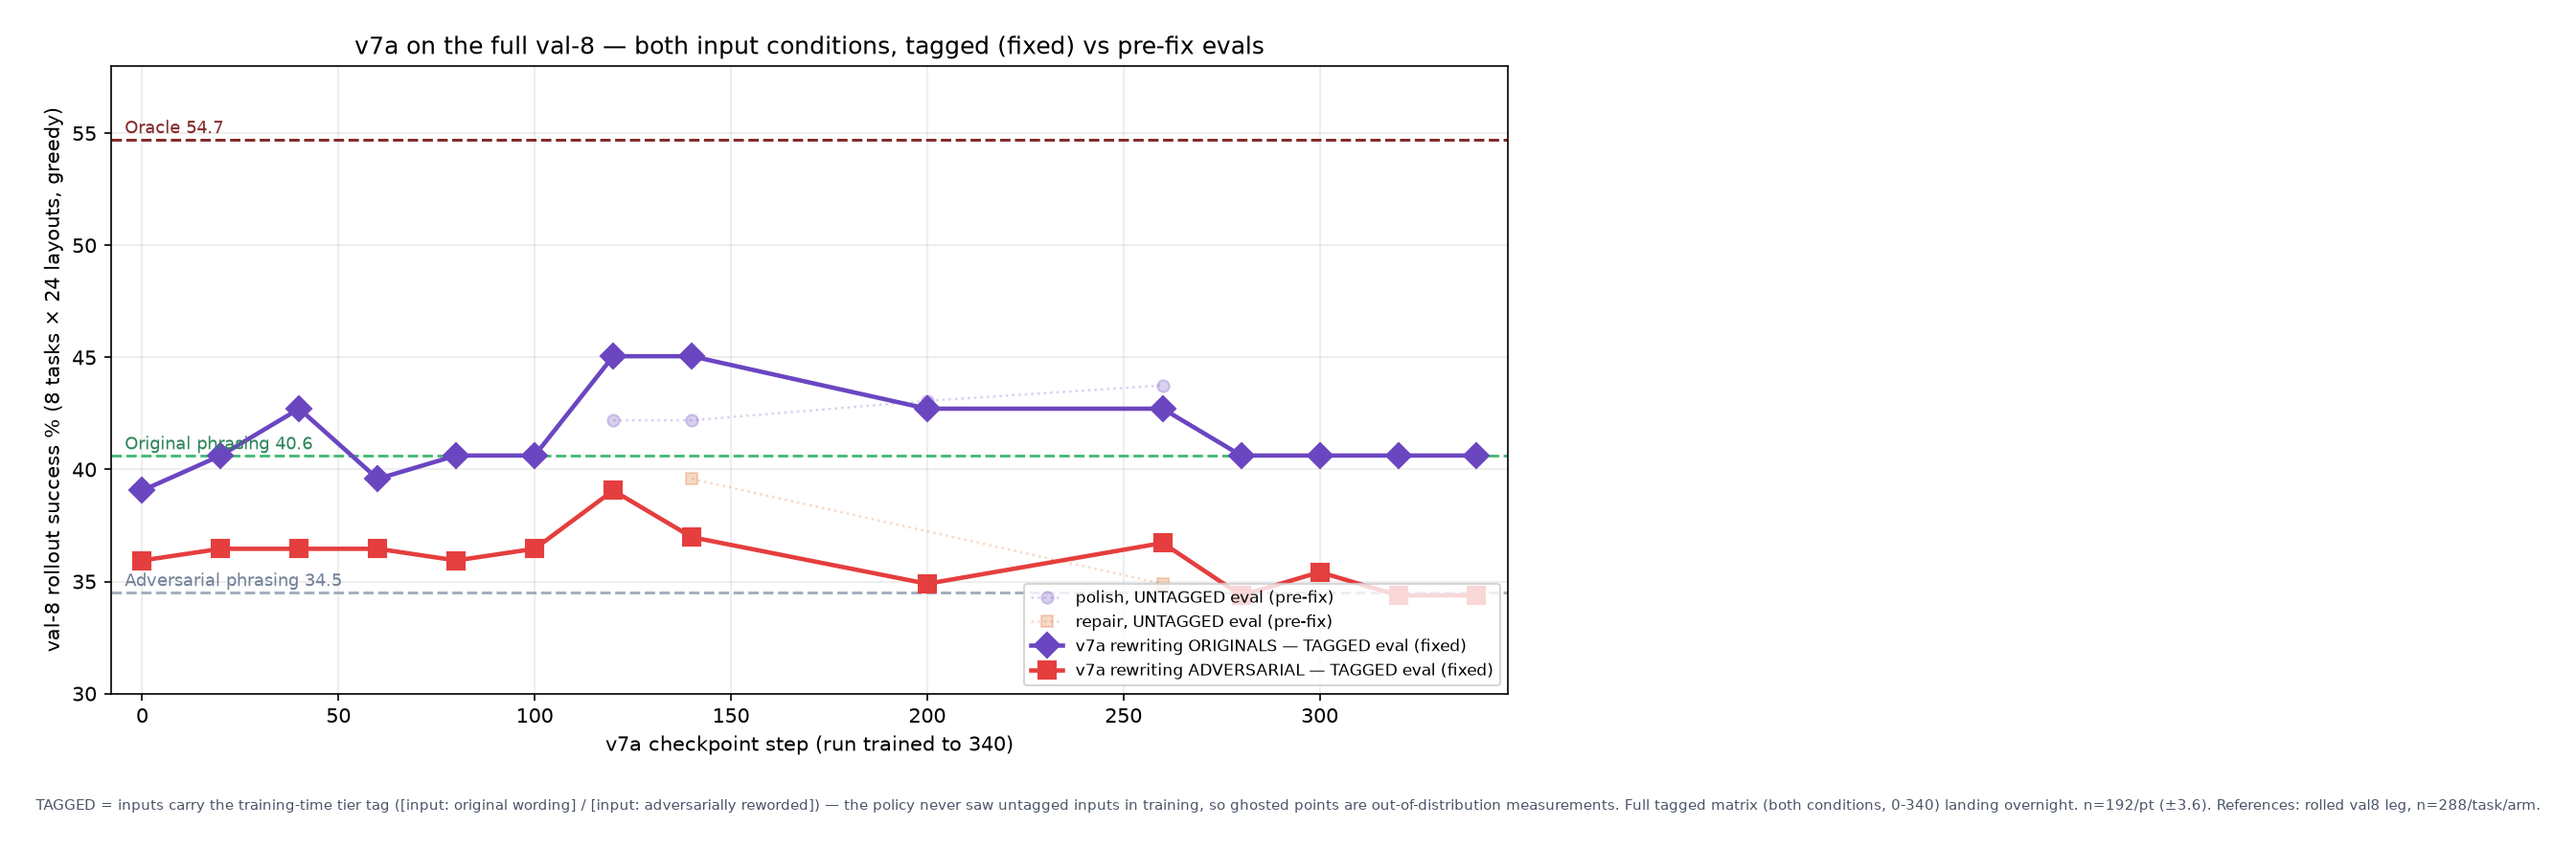
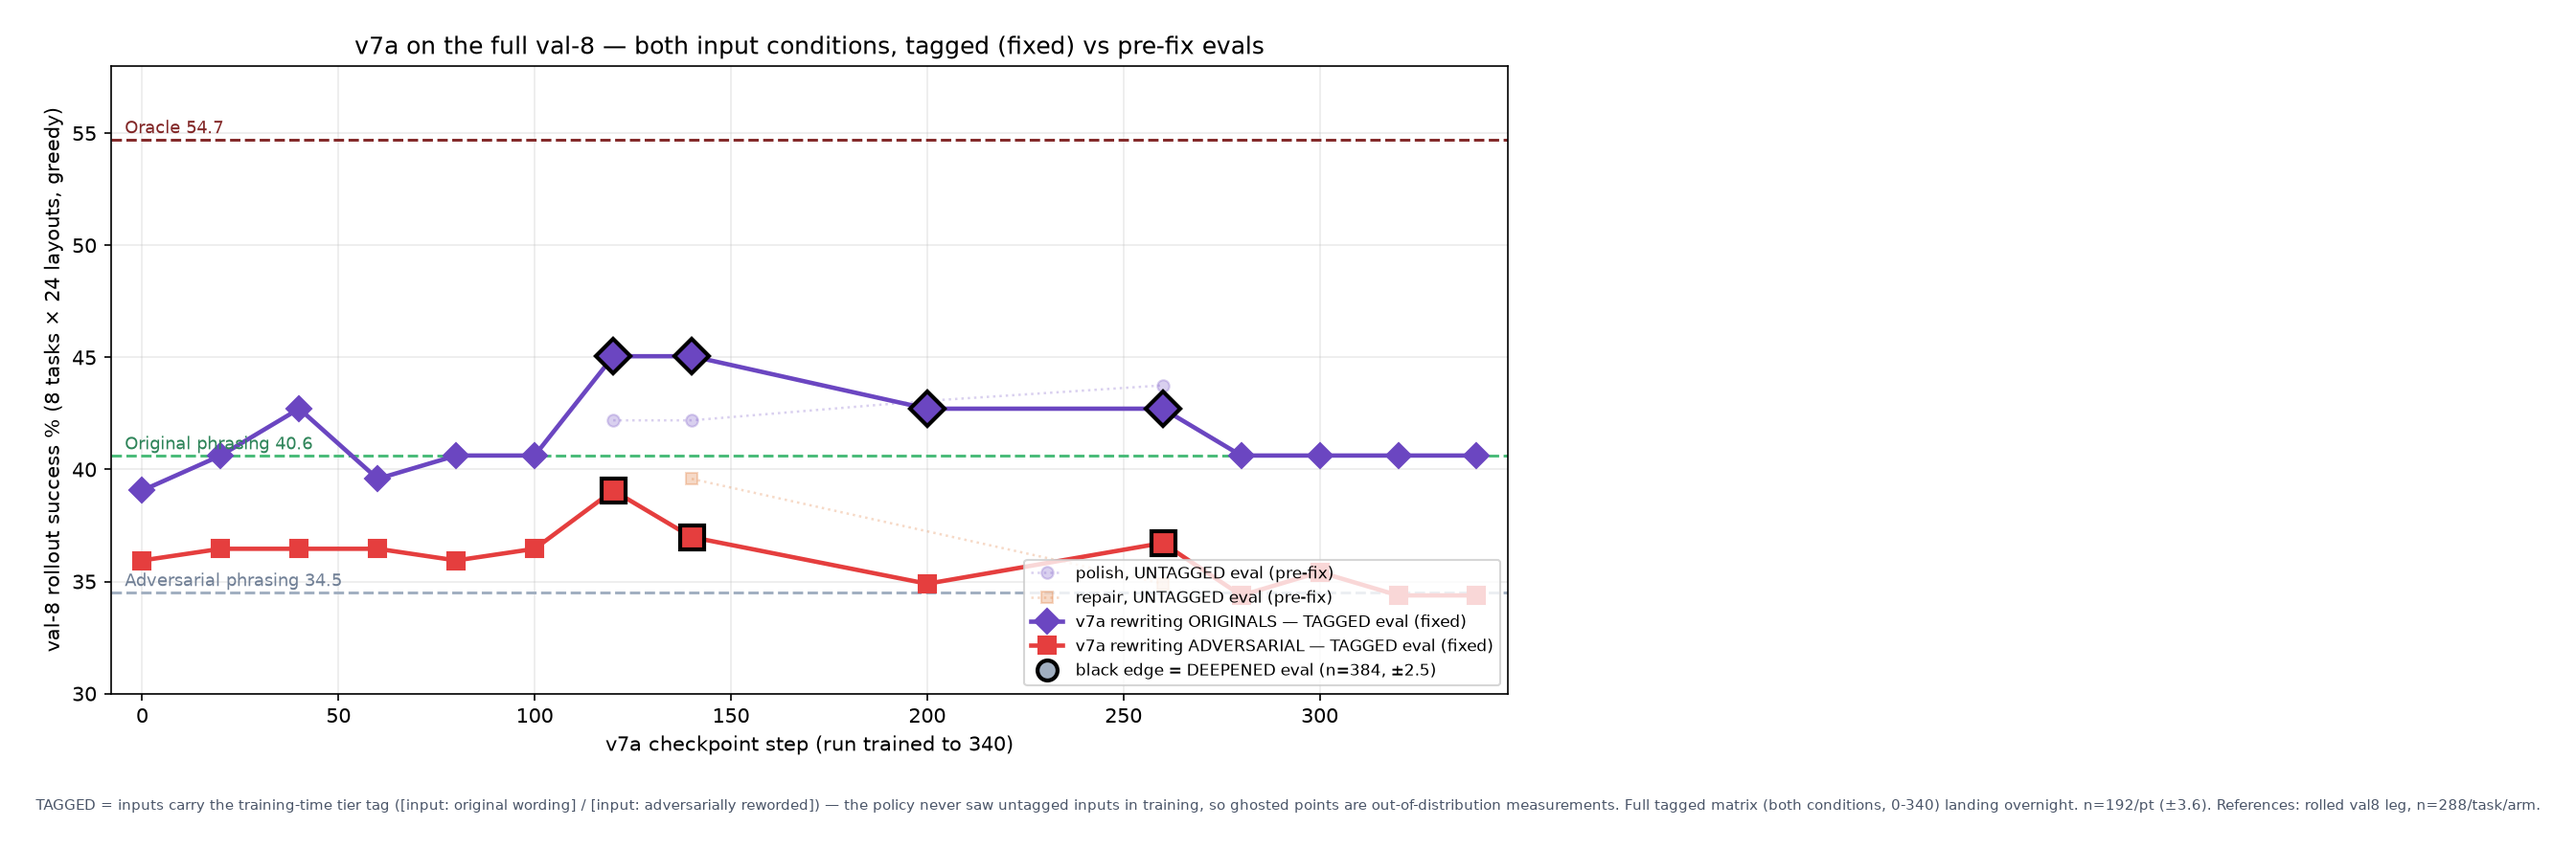
conditions chart: black-edged markers denote deepened (n=384) points

diff --git a/scripts/make_v7_conditions_chart.py b/scripts/make_v7_conditions_chart.py
@@ -44,9 +44,17 @@ if rep_u:
 if pol_t:
     ax.plot([r["step"] for r in pol_t], [r["pooled"] for r in pol_t], marker="D", ms=9,
             color="#6b46c1", lw=2.2, label="v7a rewriting ORIGINALS — TAGGED eval (fixed)")
+    dp = [r for r in pol_t if r.get("n", 192) >= 384]
+    ax.plot([r["step"] for r in dp], [r["pooled"] for r in dp], marker="D", ms=12, ls="none",
+            markerfacecolor="#6b46c1", markeredgecolor="black", markeredgewidth=2, zorder=5)
 if rep_t:
     ax.plot([r["step"] for r in rep_t], [r["pooled"] for r in rep_t], marker="s", ms=9,
             color="#e53e3e", lw=2.2, label="v7a rewriting ADVERSARIAL — TAGGED eval (fixed)")
+    dr = [r for r in rep_t if r.get("n", 192) >= 384]
+    ax.plot([r["step"] for r in dr], [r["pooled"] for r in dr], marker="s", ms=12, ls="none",
+            markerfacecolor="#e53e3e", markeredgecolor="black", markeredgewidth=2, zorder=5)
+ax.plot([], [], marker="o", ls="none", markerfacecolor="#a0aec0", markeredgecolor="black",
+        markeredgewidth=2, ms=10, label="black edge = DEEPENED eval (n=384, ±2.5)")
 
 ax.set_xlabel("v7a checkpoint step (run trained to 340)")
 ax.set_ylabel("val-8 rollout success % (8 tasks × 24 layouts, greedy)")
